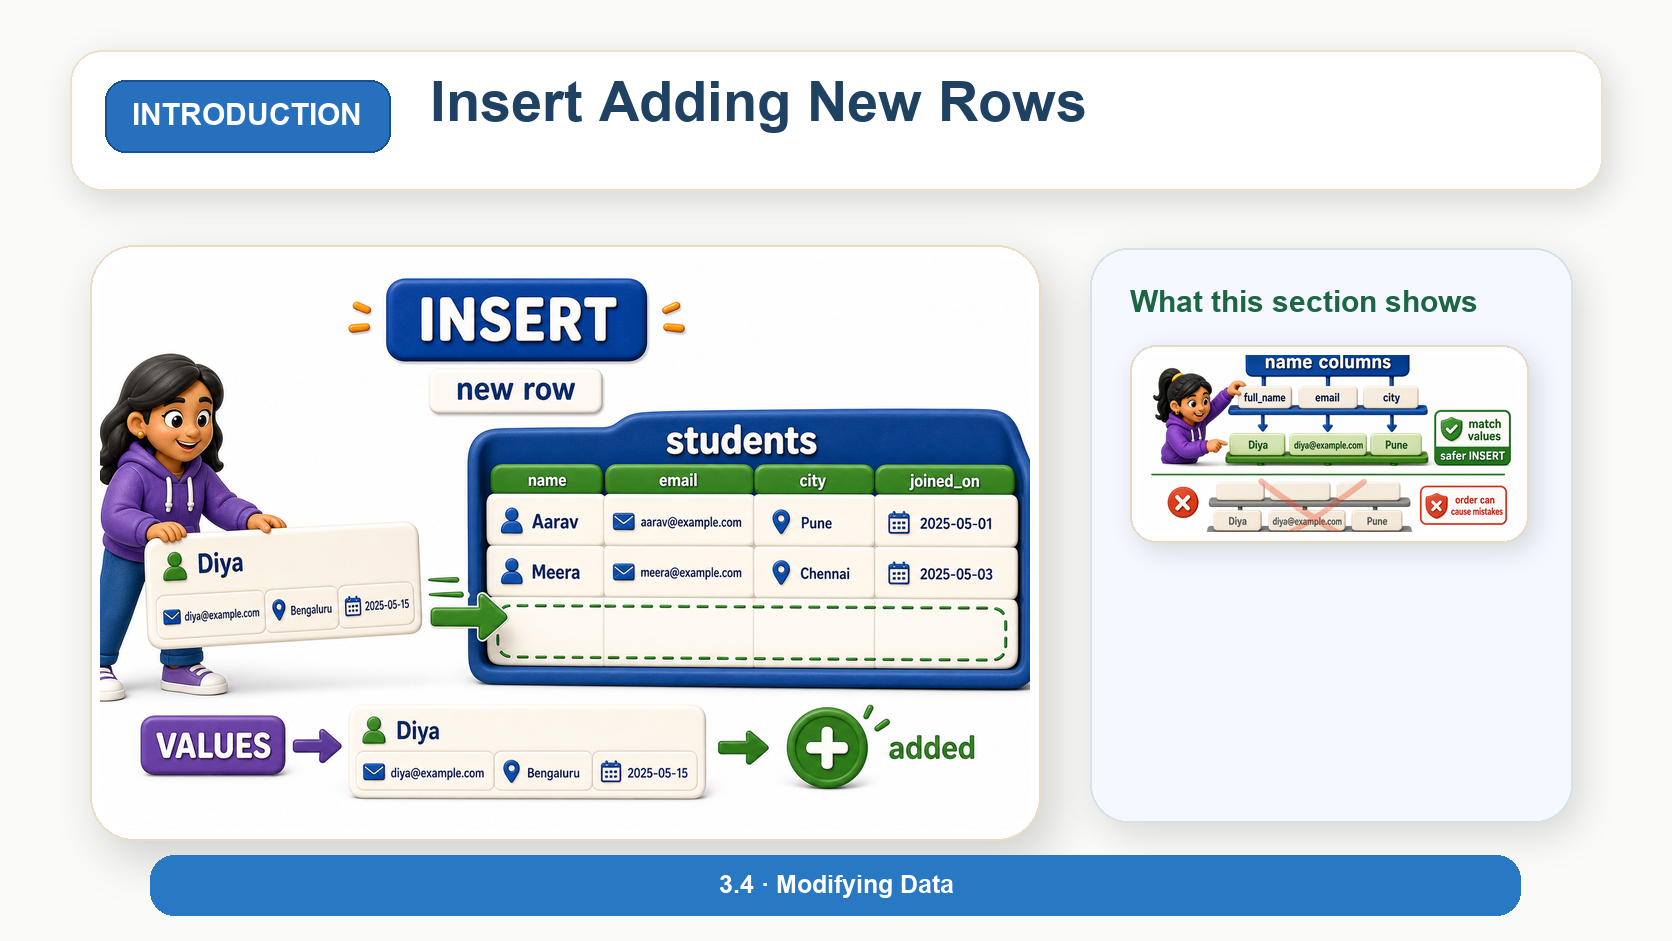
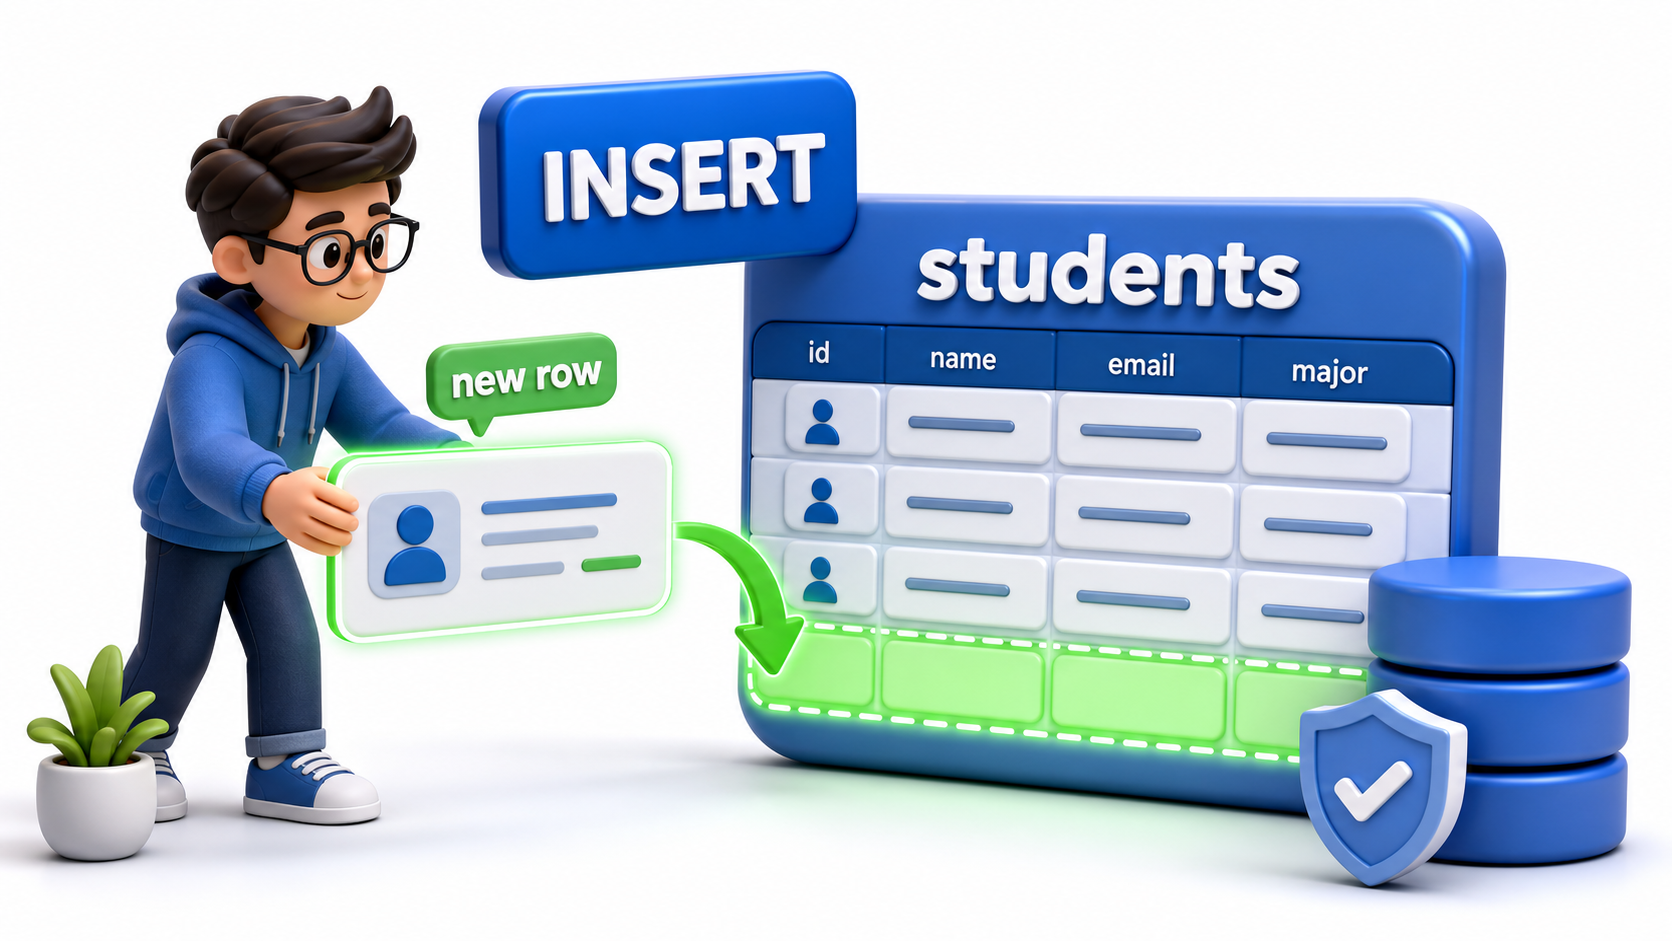
Replace unit 3.4 intro placeholders with actual 3D visuals

diff --git a/content/DBMS_Upload_Chapters/3.4 - Modifying Data/06_why_modification_needs_discipline.md b/content/DBMS_Upload_Chapters/3.4 - Modifying Data/06_why_modification_needs_discipline.md
@@ -6,7 +6,7 @@ Naveen realizes that everything he has learned about `INSERT`, `UPDATE`, `DELETE
 
 **Definition:** **Disciplined data modification** means identifying the exact rows a write statement will affect, protecting related changes with transactions when necessary, and verifying the result so accidental or partial changes do not damage the data.
 
-![Intro visual for why modification needs discipline](https://s3.ap-south-1.amazonaws.com/static.bytexl.app/uploads/44sjn9mdv/content/images/06_intro_why_modification_needs_discipline_matched_e9f7c873.png)
+![Intro visual for why modification needs discipline](https://s3.ap-south-1.amazonaws.com/static.bytexl.app/uploads/44sjn9mdv/content/44sjn9mdv/06_intro_why_modification_needs_discipline.png)
 
 ## Why a SELECT Mistake and a Modification Mistake Are Not the Same
 

diff --git a/content/DBMS_Upload_Chapters/3.4 - Modifying Data/05_upsert_and_on_conflict_insert_or_update_in_one_ste.md b/content/DBMS_Upload_Chapters/3.4 - Modifying Data/05_upsert_and_on_conflict_insert_or_update_in_one_ste.md
@@ -8,7 +8,7 @@ What Aditya needs is a single statement that inserts a row if it is new and upda
 
 **Definition:** An **upsert** is a single operation that inserts a new row when no matching row exists or updates the existing row when a uniqueness conflict occurs; PostgreSQL implements it with `INSERT ... ON CONFLICT`.
 
-![Intro visual for upsert and on conflict insert or update in](https://s3.ap-south-1.amazonaws.com/static.bytexl.app/uploads/44sjn9mdv/content/images/05_intro_upsert_and_on_conflict_insert_or_update_in_one_s_matched_93f336b5.png)
+![Intro visual for upsert and on conflict insert or update in](https://s3.ap-south-1.amazonaws.com/static.bytexl.app/uploads/44sjn9mdv/content/44sjn9mdv/05_intro_upsert_and_on_conflict_insert_or_update_in_one_s.png)
 
 ## Setting Up a Uniqueness Rule to Conflict Against
 

diff --git a/content/DBMS_Upload_Chapters/3.4 - Modifying Data/04_returning_getting_back_what_you_just_changed.md b/content/DBMS_Upload_Chapters/3.4 - Modifying Data/04_returning_getting_back_what_you_just_changed.md
@@ -6,7 +6,7 @@ A senior developer reviewing her work points out that PostgreSQL can hand that c
 
 **Definition:** `RETURNING` turns a modification into its own confirmation, handing back exactly the row an `INSERT` just created, an `UPDATE` just changed, or a `DELETE` just removed, without a second statement needed to check the result.
 
-![Intro visual for returning getting back what you just changed](https://s3.ap-south-1.amazonaws.com/static.bytexl.app/uploads/44sjn9mdv/content/images/04_intro_returning_getting_back_what_you_just_changed_matched_86a2ad52.png)
+![Intro visual for returning getting back what you just changed](https://s3.ap-south-1.amazonaws.com/static.bytexl.app/uploads/44sjn9mdv/content/44sjn9mdv/04_intro_returning_getting_back_what_you_just_changed.png)
 
 ## RETURNING After INSERT
 

diff --git a/content/DBMS/3 - SQL Essentials/3.4 - Modifying Data/05_upsert_and_on_conflict_insert_or_update_in_one_ste.md b/content/DBMS/3 - SQL Essentials/3.4 - Modifying Data/05_upsert_and_on_conflict_insert_or_update_in_one_ste.md
@@ -22,7 +22,7 @@ ON-IMAGE TEXT: show a short bold title "Upsert And On Conflict Insert Or Update 
 GOAL: make the opening idea instantly clear and engaging while matching the existing DBMS reading-material image standards.
 -->
 
-![Intro visual for upsert and on conflict insert or update in](https://s3.ap-south-1.amazonaws.com/static.bytexl.app/uploads/44sjn9mdv/content/images/05_intro_upsert_and_on_conflict_insert_or_update_in_one_s_matched_93f336b5.png)
+![Intro visual for upsert and on conflict insert or update in](https://s3.ap-south-1.amazonaws.com/static.bytexl.app/uploads/44sjn9mdv/content/44sjn9mdv/05_intro_upsert_and_on_conflict_insert_or_update_in_one_s.png)
 
 ## Setting Up a Uniqueness Rule to Conflict Against
 

diff --git a/content/DBMS_Upload_Chapters/3.4 - Modifying Data/02_update_modifying_existing_rows_safely.md b/content/DBMS_Upload_Chapters/3.4 - Modifying Data/02_update_modifying_existing_rows_safely.md
@@ -6,7 +6,7 @@ The tool for that job is **`UPDATE`**, the statement that modifies values alread
 
 **Definition:** The **`UPDATE` statement** changes values in existing table rows; its `SET` clause specifies the new values, and its `WHERE` clause limits which rows are changed.
 
-![Intro visual for update modifying existing rows safely](https://s3.ap-south-1.amazonaws.com/static.bytexl.app/uploads/44sjn9mdv/content/images/02_intro_update_modifying_existing_rows_safely_matched_fe39b977.png)
+![Intro visual for update modifying existing rows safely](https://s3.ap-south-1.amazonaws.com/static.bytexl.app/uploads/44sjn9mdv/content/44sjn9mdv/02_intro_update_modifying_existing_rows_safely.png)
 
 ## Checking Before Changing
 

diff --git a/content/DBMS/3 - SQL Essentials/3.4 - Modifying Data/04_returning_getting_back_what_you_just_changed.md b/content/DBMS/3 - SQL Essentials/3.4 - Modifying Data/04_returning_getting_back_what_you_just_changed.md
@@ -20,7 +20,7 @@ ON-IMAGE TEXT: show a short bold title "Returning Getting Back What You Just Cha
 GOAL: make the opening idea instantly clear and engaging while matching the existing DBMS reading-material image standards.
 -->
 
-![Intro visual for returning getting back what you just changed](https://s3.ap-south-1.amazonaws.com/static.bytexl.app/uploads/44sjn9mdv/content/images/04_intro_returning_getting_back_what_you_just_changed_matched_86a2ad52.png)
+![Intro visual for returning getting back what you just changed](https://s3.ap-south-1.amazonaws.com/static.bytexl.app/uploads/44sjn9mdv/content/44sjn9mdv/04_intro_returning_getting_back_what_you_just_changed.png)
 
 ## RETURNING After INSERT
 

diff --git a/content/DBMS/3 - SQL Essentials/3.4 - Modifying Data/06_why_modification_needs_discipline.md b/content/DBMS/3 - SQL Essentials/3.4 - Modifying Data/06_why_modification_needs_discipline.md
@@ -20,7 +20,7 @@ ON-IMAGE TEXT: show a short bold title "Why Modification Needs Discipline" plus 
 GOAL: make the opening idea instantly clear and engaging while matching the existing DBMS reading-material image standards.
 -->
 
-![Intro visual for why modification needs discipline](https://s3.ap-south-1.amazonaws.com/static.bytexl.app/uploads/44sjn9mdv/content/images/06_intro_why_modification_needs_discipline_matched_e9f7c873.png)
+![Intro visual for why modification needs discipline](https://s3.ap-south-1.amazonaws.com/static.bytexl.app/uploads/44sjn9mdv/content/44sjn9mdv/06_intro_why_modification_needs_discipline.png)
 
 ## Why a SELECT Mistake and a Modification Mistake Are Not the Same
 

diff --git a/content/DBMS_Upload_Chapters/3.4 - Modifying Data/03_delete_removing_rows_without_accidents.md b/content/DBMS_Upload_Chapters/3.4 - Modifying Data/03_delete_removing_rows_without_accidents.md
@@ -6,7 +6,7 @@ The statement for this is **`DELETE`**, and Priyanka already knows, from watchin
 
 **Definition:** The **`DELETE` statement** removes existing rows from a table, with the `WHERE` clause determining which rows are removed.
 
-![Intro visual for delete removing rows without accidents](https://s3.ap-south-1.amazonaws.com/static.bytexl.app/uploads/44sjn9mdv/content/images/03_intro_delete_removing_rows_without_accidents_matched_c7d32733.png)
+![Intro visual for delete removing rows without accidents](https://s3.ap-south-1.amazonaws.com/static.bytexl.app/uploads/44sjn9mdv/content/44sjn9mdv/03_intro_delete_removing_rows_without_accidents.png)
 
 ## Finding the Row Before Removing It
 

diff --git a/content/DBMS/3 - SQL Essentials/3.4 - Modifying Data/03_delete_removing_rows_without_accidents.md b/content/DBMS/3 - SQL Essentials/3.4 - Modifying Data/03_delete_removing_rows_without_accidents.md
@@ -20,7 +20,7 @@ ON-IMAGE TEXT: show a short bold title "Delete Removing Rows Without Accidents" 
 GOAL: make the opening idea instantly clear and engaging while matching the existing DBMS reading-material image standards.
 -->
 
-![Intro visual for delete removing rows without accidents](https://s3.ap-south-1.amazonaws.com/static.bytexl.app/uploads/44sjn9mdv/content/images/03_intro_delete_removing_rows_without_accidents_matched_c7d32733.png)
+![Intro visual for delete removing rows without accidents](https://s3.ap-south-1.amazonaws.com/static.bytexl.app/uploads/44sjn9mdv/content/44sjn9mdv/03_intro_delete_removing_rows_without_accidents.png)
 
 ## Finding the Row Before Removing It
 

diff --git a/content/DBMS/3 - SQL Essentials/3.4 - Modifying Data/02_update_modifying_existing_rows_safely.md b/content/DBMS/3 - SQL Essentials/3.4 - Modifying Data/02_update_modifying_existing_rows_safely.md
@@ -20,7 +20,7 @@ ON-IMAGE TEXT: show a short bold title "Update Modifying Existing Rows Safely" p
 GOAL: make the opening idea instantly clear and engaging while matching the existing DBMS reading-material image standards.
 -->
 
-![Intro visual for update modifying existing rows safely](https://s3.ap-south-1.amazonaws.com/static.bytexl.app/uploads/44sjn9mdv/content/images/02_intro_update_modifying_existing_rows_safely_matched_fe39b977.png)
+![Intro visual for update modifying existing rows safely](https://s3.ap-south-1.amazonaws.com/static.bytexl.app/uploads/44sjn9mdv/content/44sjn9mdv/02_intro_update_modifying_existing_rows_safely.png)
 
 ## Checking Before Changing
 

diff --git a/content/DBMS/3 - SQL Essentials/3.4 - Modifying Data/01_insert_adding_new_rows.md b/content/DBMS/3 - SQL Essentials/3.4 - Modifying Data/01_insert_adding_new_rows.md
@@ -20,7 +20,7 @@ ON-IMAGE TEXT: show a short bold title "Insert Adding New Rows" plus only these 
 GOAL: make the opening idea instantly clear and engaging while matching the existing DBMS reading-material image standards.
 -->
 
-![Intro visual for insert adding new rows](https://s3.ap-south-1.amazonaws.com/static.bytexl.app/uploads/44sjn9mdv/content/images/01_intro_insert_adding_new_rows_matched_0a0b06df.png)
+![Intro visual for insert adding new rows](https://s3.ap-south-1.amazonaws.com/static.bytexl.app/uploads/44sjn9mdv/content/44sjn9mdv/01_intro_insert_adding_new_rows.png)
 
 ## The Anatomy of INSERT INTO
 

diff --git a/content/DBMS_Upload_Chapters/3.4 - Modifying Data/01_insert_adding_new_rows.md b/content/DBMS_Upload_Chapters/3.4 - Modifying Data/01_insert_adding_new_rows.md
@@ -6,7 +6,7 @@ Alia has spent the last few weeks only ever looking at data on screen, running `
 
 **Definition:** The **`INSERT` statement** adds one or more new rows to a table by supplying values for the table's columns.
 
-![Intro visual for insert adding new rows](https://s3.ap-south-1.amazonaws.com/static.bytexl.app/uploads/44sjn9mdv/content/images/01_intro_insert_adding_new_rows_matched_0a0b06df.png)
+![Intro visual for insert adding new rows](https://s3.ap-south-1.amazonaws.com/static.bytexl.app/uploads/44sjn9mdv/content/44sjn9mdv/01_intro_insert_adding_new_rows.png)
 
 ## The Anatomy of INSERT INTO
 
